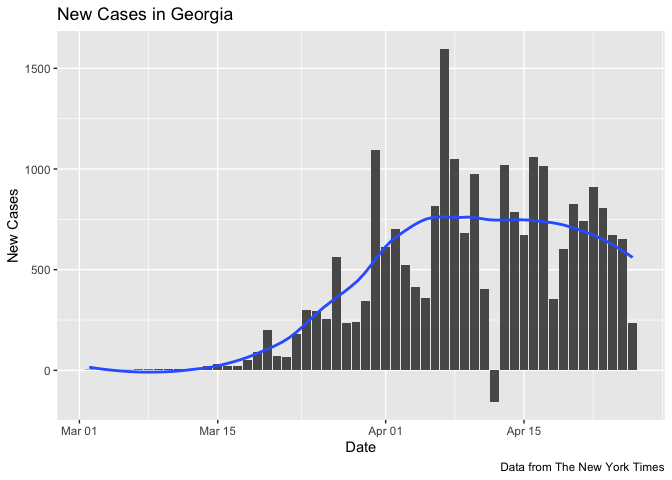
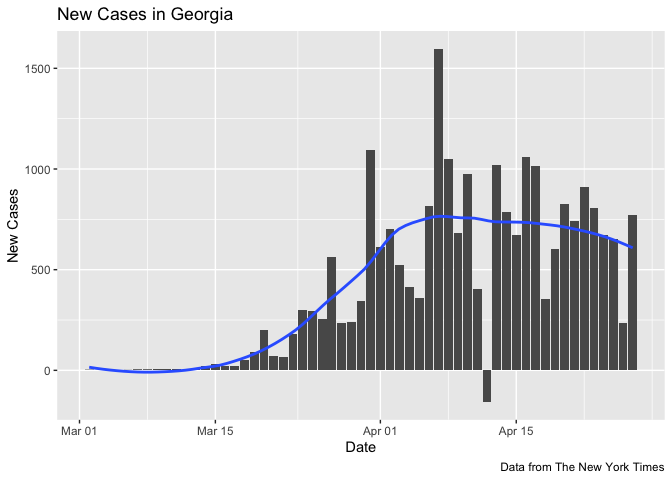
Ran with new data

diff --git a/Metro_Atlanta_COVID.md b/Metro_Atlanta_COVID.md
@@ -16,7 +16,7 @@ It’s hard to know how to interpret these numbers since there are major
 known unknowns. Neither confirmed cases nor deaths can be said to be
 reliable counts of the true numbers.
 
-Data current as of April 27,
+Data current as of April 28,
 2020.
 
 # Metro Atlanta
